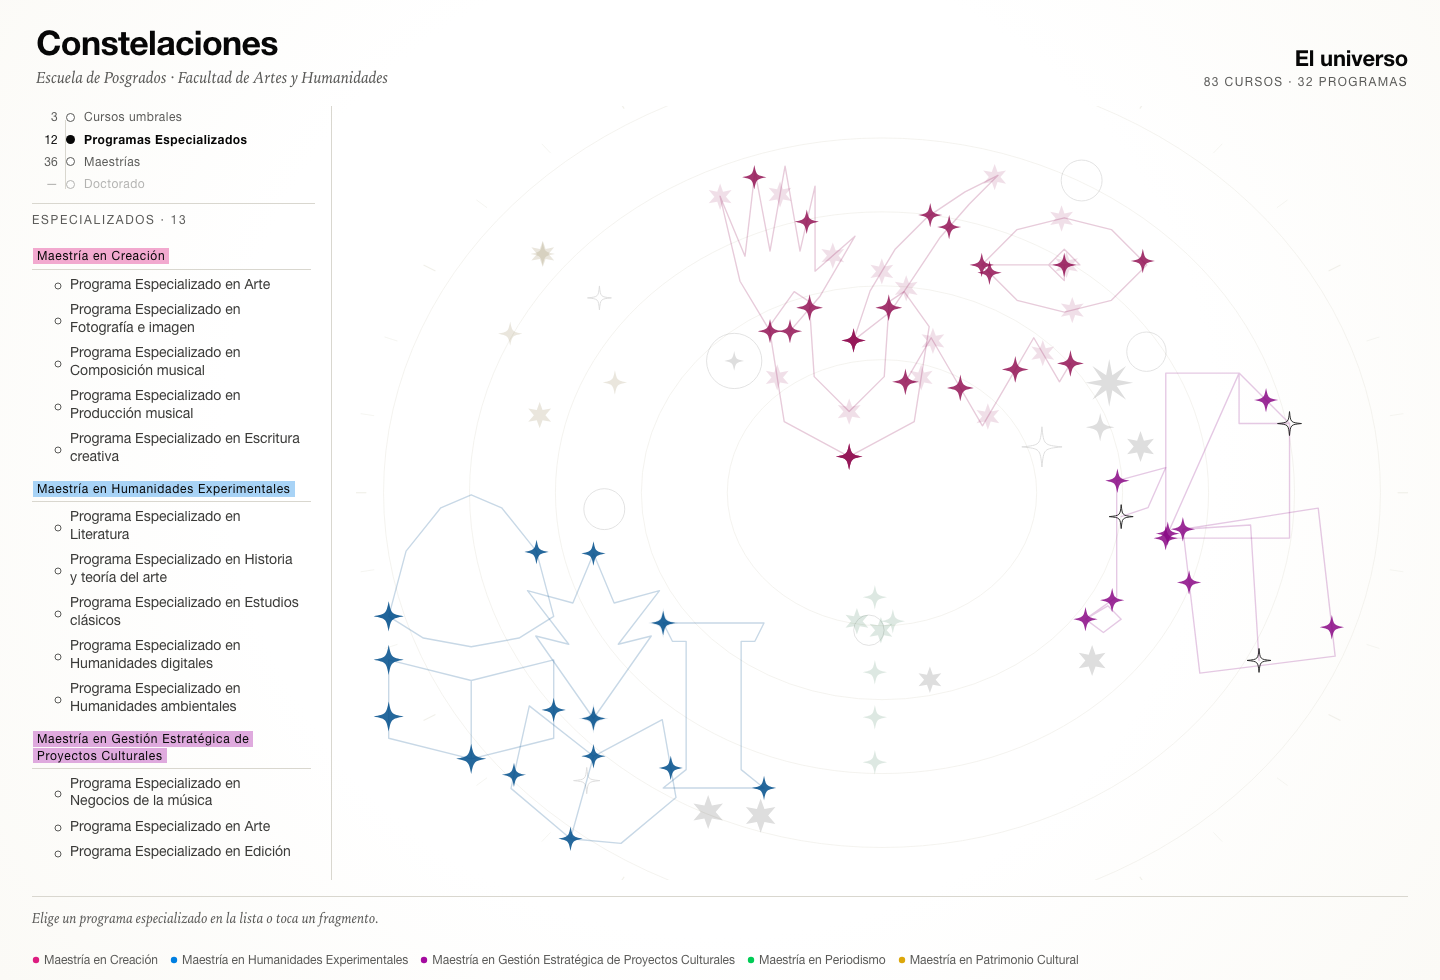
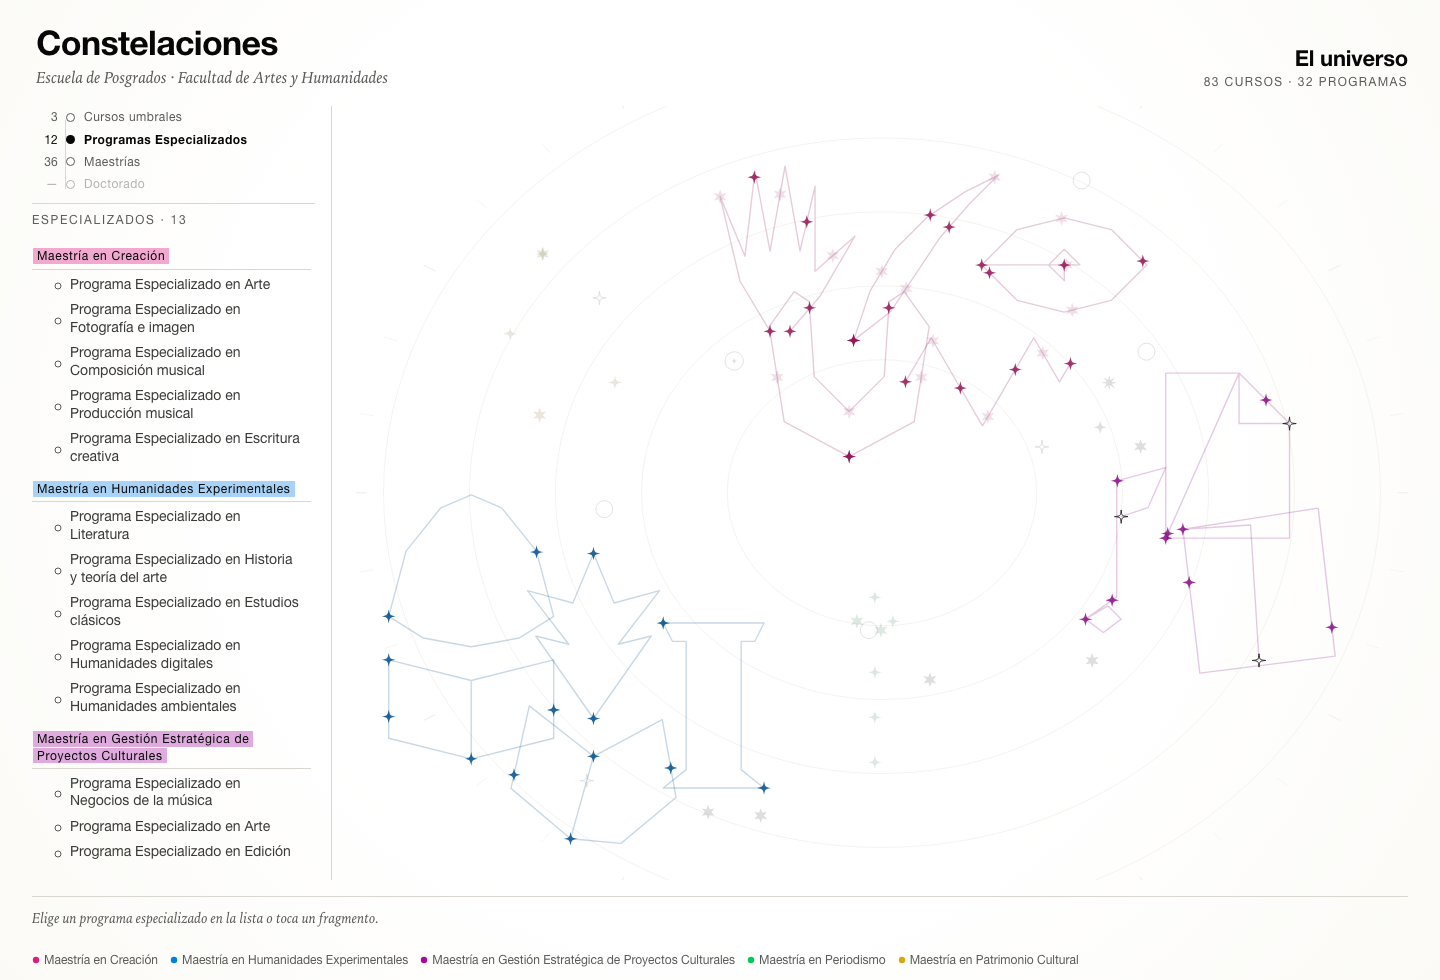
La estrella mide lo mismo en todas las vistas generales
- r = 6,6 salvo en la constelación abierta, donde radioDe codifica programas compartidos
- docs y captura

diff --git a/src/lib/components/SkyStage.svelte b/src/lib/components/SkyStage.svelte
@@ -268,7 +268,8 @@
       {@const c = curriculum.cursos[e.cursoId]}
       {@const p = pos[e.clave] ?? [e.x, e.y]}
       {@const senalada = foco?.tipo === 'curso' && foco.id === e.cursoId}
-      {@const r = enFragmento || !enNebulosa ? radioDe(c.nProgramas) : 6.6}
+      /* la misma estrella en todas las vistas generales; crece al abrir un programa */
+      {@const r = sinPrograma ? 6.6 : radioDe(c.nProgramas)}
       {@const color = colorEstrella(e.en)}
       {#if e.estado !== 'oculto'}
         <g

diff --git a/docs/diary.md b/docs/diary.md
@@ -483,3 +483,12 @@ de texto. Los códigos quedan para la constelación abierta, donde el programa e
 
 **Lo que se gana:** el universo se lee de un vistazo —formas, colores, regiones— y el detalle aparece
 solo cuando se entra.
+
+---
+
+## 2026-10-30 · La misma estrella
+
+**Un tamaño por vista.** En la escala del especializado las estrellas se dibujaban con el radio de la
+constelación —hasta 20 px— mientras en el resto de las vistas generales medían 6,6. Ahora todas las
+vistas generales comparten tamaño; el radio grande queda para cuando hay un programa abierto, donde
+significa algo.
